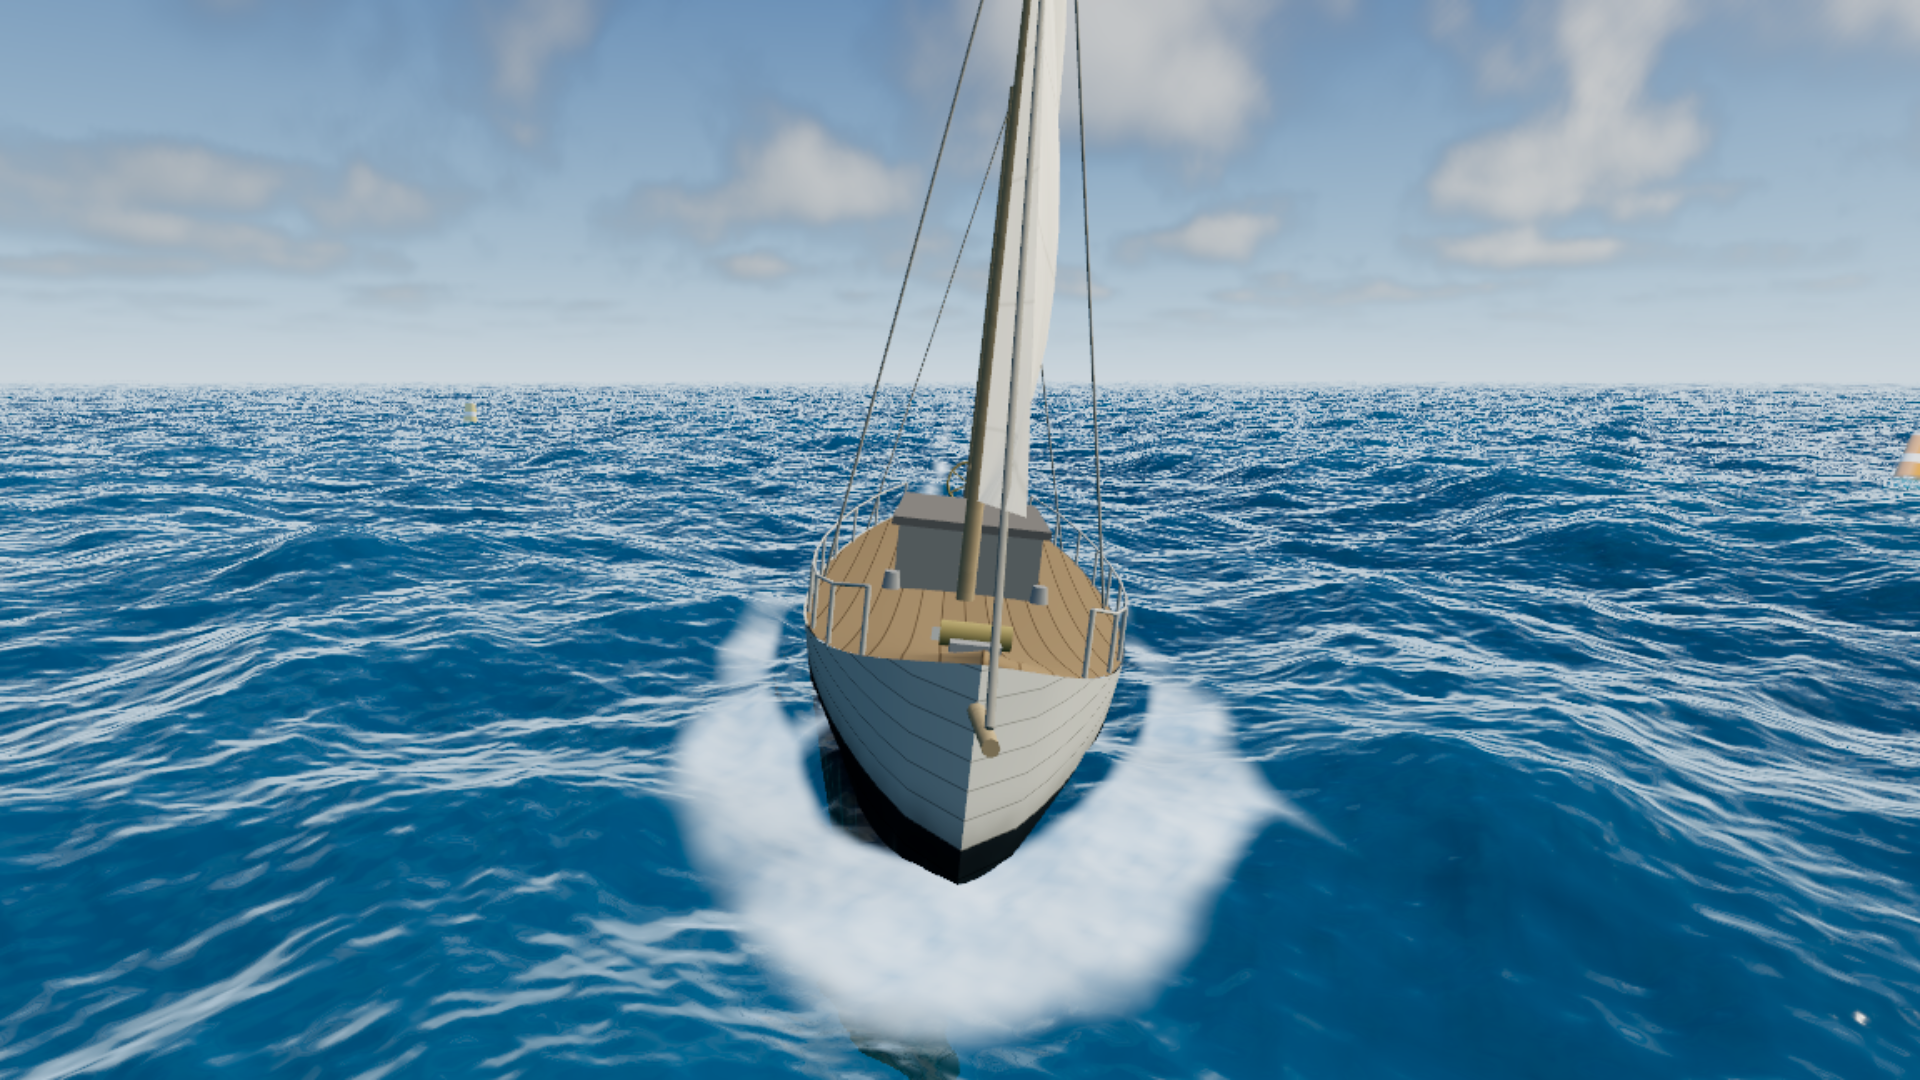
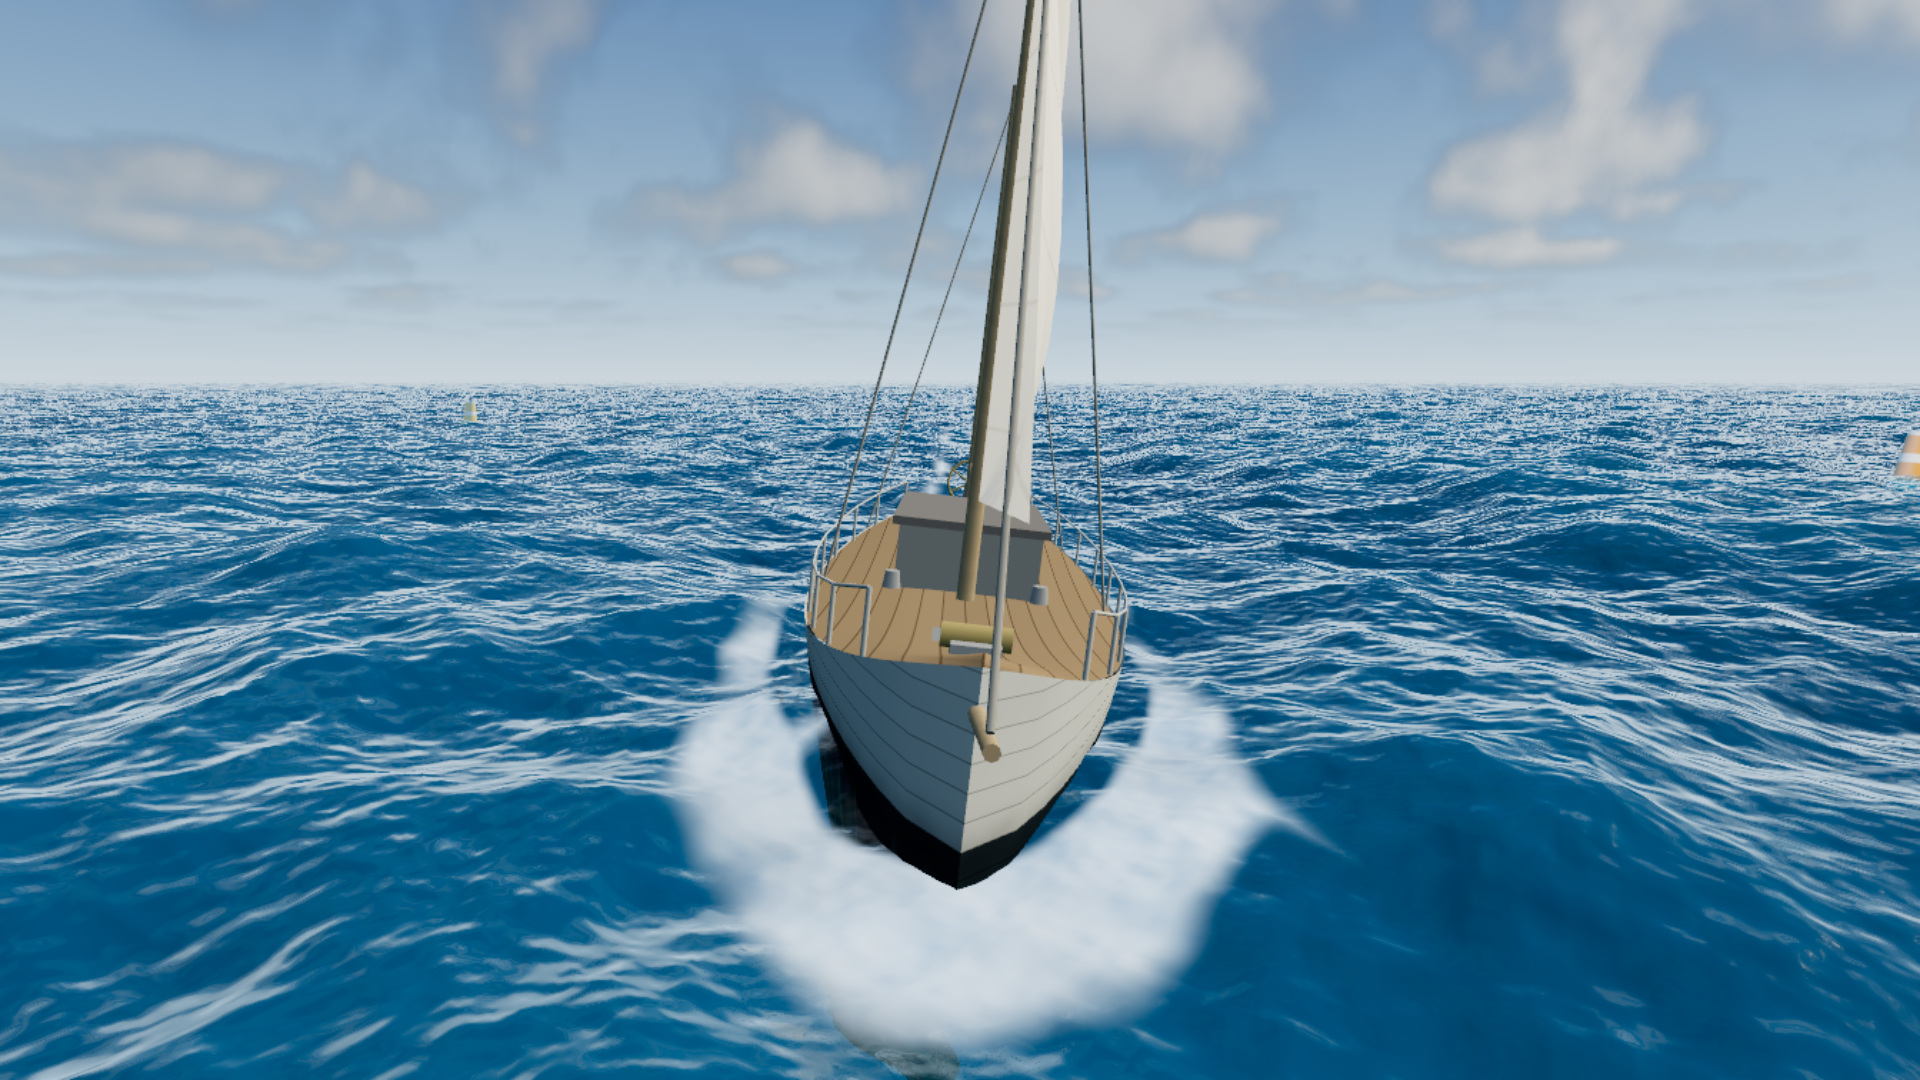
Read the reflection colour once, where the march actually hit
SSR measured at 11.85 ms per frame at 4K — paired, three rounds within 1.1 ms of
each other, so this one is not noise. By a wide margin the most expensive thing
the surface does, and the smallest visual return of the eight gaps.

Half of that was sampling the frame buffer at every step for a value all but one
step throws away. The march records where it hit and the colour is read once
afterwards. Steps also 10 to 8.

Committed before re-measuring, deliberately: the number to compare against is the
one already recorded, and the next reading needs a cold machine.

diff --git a/src/ocean/material.js b/src/ocean/material.js
@@ -36,7 +36,7 @@ import { causticPattern, fresnelSchlick, ggxSpecular, liftReflection, rippleSlop
 const SUN_SPEC_SCALE = 0.22;
 
 /** Screen-space reflection march. */
-const SSR_STEPS = 10;
+const SSR_STEPS = 8;
 const SSR_DISTANCE = 90.0;
 const SSR_THICKNESS = 0.0009;
 
@@ -413,7 +413,14 @@ export function createOceanMaterial( env, field, sky, opts = {} ) {
 				screenUV.x.mul( 0.06711056 * 1920.0 ).add( screenUV.y.mul( 0.00583715 * 1080.0 ) )
 			) ) );
 
-			const hitCol = vec3( 0.0 ).toVar( 'ssrCol' );
+			// The march records *where* it hit and reads the colour once afterwards.
+			//
+			// Sampling the frame every step was half the cost of the whole effect
+			// for a value that all but one step throws away. Measured at 4K before
+			// the change: 11.85 ms per frame, paired, three rounds within 1.1 ms of
+			// each other — by a wide margin the most expensive thing on the
+			// surface, and the smallest visual return of the eight.
+			const hitUV = vec2( 0.0 ).toVar( 'ssrUV' );
 			const hit = float( 0.0 ).toVar( 'ssrHit' );
 
 			for ( let i = 0; i < SSR_STEPS; i ++ ) {
@@ -447,7 +454,7 @@ export function createOceanMaterial( env, field, sky, opts = {} ) {
 					.mul( oneMinus( smoothstep( SSR_THICKNESS * 0.6, SSR_THICKNESS, gap ) ) )
 					.mul( onScreen ).mul( oneMinus( hit ) );
 
-				hitCol.assign( mix( hitCol, sceneColorTex.sample( sp.xy ).rgb, found ) );
+				hitUV.assign( mix( hitUV, sp.xy, found ) );
 				hit.assign( max( hit, found ) );
 
 			}
@@ -459,7 +466,11 @@ export function createOceanMaterial( env, field, sky, opts = {} ) {
 			const fade = smoothstep( 0.0, 0.12, screenUV.y )
 				.mul( oneMinus( saturate( rough.mul( 2.6 ) ) ) );
 
-			reflection.assign( mix( reflection, hitCol, hit.mul( fade ).mul( u.ssrStrength ) ) );
+			reflection.assign( mix(
+				reflection,
+				sceneColorTex.sample( hitUV ).rgb,
+				hit.mul( fade ).mul( u.ssrStrength )
+			) );
 
 		}
 
